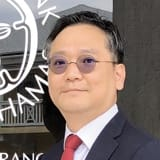
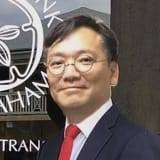
change photos and correct typos

diff --git a/content/_index.en.md b/content/_index.en.md
@@ -48,7 +48,7 @@ content:
         <p data-scroll="once">To provide broad accessibility and ensure constant availability of CBDC across a nation, there are significant technical challenges that must be overcome. These challenges are especially compounded for archipelagic states and nations with geographically dispersed regions with low population densities. In order to extend financial inclusion to all the remote communities in an economically feasible way, a new type of approach is required.</p>
         <p data-scroll="once">NZIA has developed an innovative Decentralized Wireless Payment System, consisting of a modular design that can be customized to meet regional needs ranging from highly dense urban cities to sparse rural towns and villages. In order to streamline upfront investment costs, our systems can be adapted to work with existing infrastructure and easily scale on an as-needed basis, rather than a one-size-fits-all approach.</p>
       body2:
-        <p data-scroll="once">The NZIA platform integrates hybrid wireless communication networks, blockchain hardware nodes, edge processing capability and the NZIA Cortex DLT. Our approach provides analternative payment infrastructure that is capable of working alongside existing banking systems, to augment bank giro networks with improved efficiency. By providing an alternative decentralized payment network ancillary to existing centralized networks, single points of failure can be overcome to enhance the overall financial system with greater flexibility and stability.</p>
+        <p data-scroll="once">The NZIA platform integrates hybrid wireless communication networks, blockchain hardware nodes, edge processing capability and the NZIA Cortex DLT. Our approach provides an alternative payment infrastructure that is capable of working alongside existing banking systems, to augment financial networks with improved efficiency. By providing an alternative decentralized payment network ancillary to existing centralized networks, single points of failure can be overcome to enhance the overall financial system with greater flexibility and stability.</p>
       image:
         x1: beachbar.jpg
         x2: beachbar@2x.jpg
@@ -72,7 +72,7 @@ content:
           body: Alice then decides to send some money to her husband Bob by a free P2P transfer, to pick up some groceries on his way home; Except this is not a normal P2P transfer from phone to phone.
         - image: alice4
           image_alt: Bob holding up and looking at his NZIA debit card
-          body: Bob is a more traditional kind of guy and prefers the plastic debit card issued to him from the local bank, over using a smart phone. Through NZIA, the CBDC is transferred seamlessly from Alice’s mobile wallet directly to Bob’s physical card; She deposits the rest of her money into her savings account.
+          body: Bob is a more traditional kind of guy and prefers the plastic debit card issued to him from the local bank, over using a smart phone. Through NZIA, CBDC is transferred seamlessly from Alice’s mobile wallet directly to Bob’s physical card; She deposits the rest of her money into her savings account.
         - image: alice5
           image_alt: CASH-ONLY sign with rain in front of it
           body: It’s getting later on in the evening and the weather starts to get dicey. Unbeknownst to Bob, due to adverse conditions on the main island the payment network on his island has totally lost connection to the main network. Typically, in these scenarios, signs would go up at merchants letting people know system is down, so cash-only.
@@ -81,7 +81,7 @@ content:
           body: Luckily, this is not a typical payment network. Because of unique NZIA technology, despite the network partition, the payment network on this island continues to operate independently.
         - image: alice7
           image_alt: Bob paying using his NZIA debit card at the grocery store checkout
-          body: Bob heads to the supermarket, grabs his groceries, and presents his card to the cashier who collects payment by scanning the OR code on it using the free POS mobile app. Behind the scenes, NZIA’s innovative reverse pull-push technology processed the transaction within seconds, and Bob is happily on his way.
+          body: Bob heads to the supermarket, grabs his groceries, and presents his card to the cashier who collects payment by scanning the QR code on it using the free POS mobile app. Behind the scenes, NZIA’s innovative reverse pull-push technology processed the transaction within seconds, and Bob is happily on his way.
     about_nzia:
       headline: About NZIA
       body:
